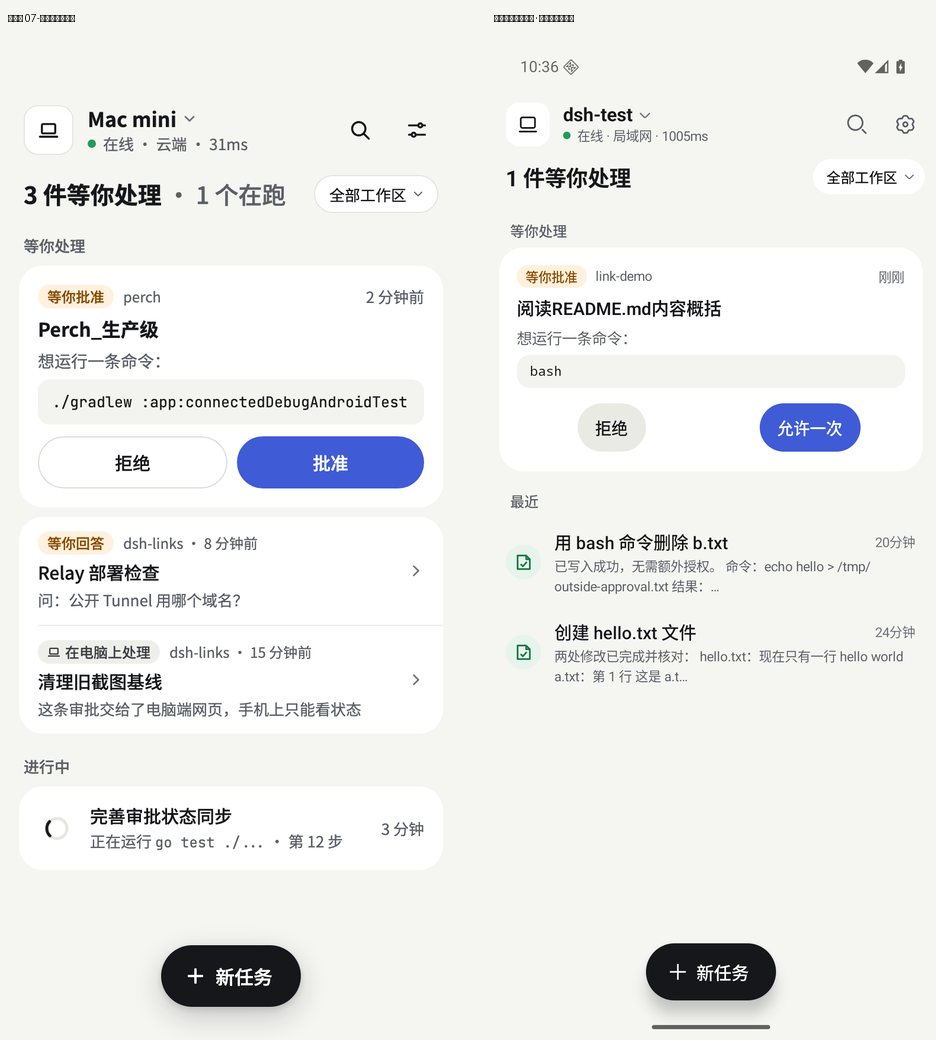
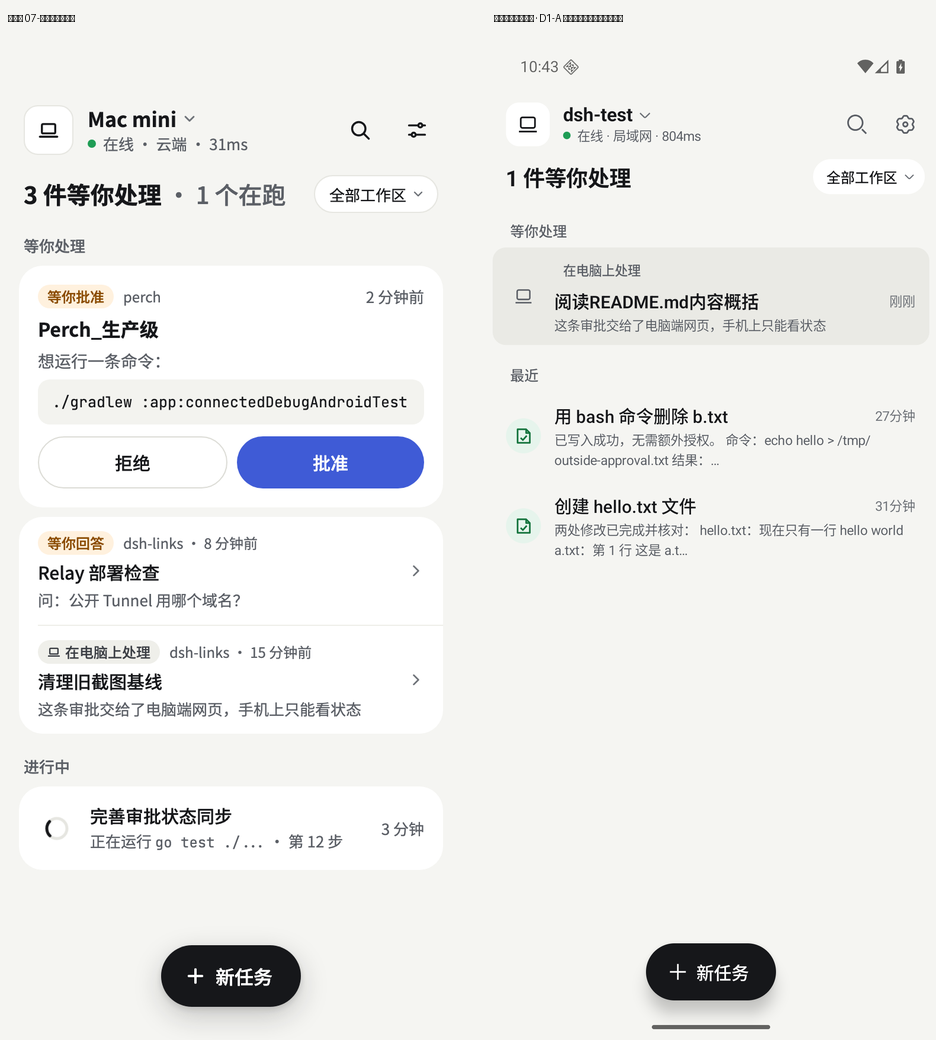
fix: 按方案 D1-A 收紧首页审批卡（只在手机接管时给按钮）+ 修活动缓存漏报 awaitingInput
查了方案 D1（用户已确认按推荐执行）：它准确描述了现状——插件只在手机订阅该会话时接管审批，
交给网页后手机再也批不了，本地 RPC 白名单里也没有替网页批准的方法；推荐 v1 是「诚实降级」：
首页审批卡只在手机接管时给「拒绝 / 批准」，其余 awaitingInput 一律「在电脑上处理」样式。
真机上我看到的带按钮的卡（会话其实交给了电脑端）正是偏离 D1-A。

两处改动：
1. Android：MobileMessage 加 takenOverByPhone，只在 /requests 快照合并成功时置位（该端点只对
   「正在查看该会话的设备」返回 200，所以拿到快照 = 接管成立）；首页卡要求这个标记。加了一条
   单测；WorkspaceActivity 的行数预算卡在 3084/3084（本注释压到两行，理由写在这里）。
2. 插件：进行中的会话行**不读活动缓存**。缓存键是 sessionId:updatedAt:running，而审批事件不改
   updatedAt，缓存会一直命中「没在等」的旧行——真机上 /sessions 连查三次都是 awaitingInput=None。
   running 通常只有一两条，代价可控；两个既有缓存测试按新策略改写。

真机验证：
- 情形 A（未接管）：首页显示「1 件等你处理 / 等你处理 / 在电脑上处理 + 一句说明」，**没有按钮** ✓；
- 缓存修复：新审批到达后 awaitingInput=True 从 6s 起稳定（此前恒为 None）✓。
情形 B（接管态带按钮）本轮没能在首页复现（需要「先订阅、后到达」的审批），已如实记录。

门禁：插件 282 例、Android 五条全绿。

diff --git a/apps/android/app/src/main/java/dev/deeplinks/native/RequestState.kt b/apps/android/app/src/main/java/dev/deeplinks/native/RequestState.kt
@@ -65,6 +65,7 @@ private fun coalesceKeyedRequestMessages(
             toolName = existing.second.toolName ?: message.toolName,
             callId = existing.second.callId ?: message.callId,
             approvalId = existing.second.approvalId ?: message.approvalId,
+            takenOverByPhone = existing.second.takenOverByPhone || message.takenOverByPhone,
             questionRpcId = existing.second.questionRpcId ?: message.questionRpcId,
             questionPayloadJson = existing.second.questionPayloadJson ?: message.questionPayloadJson,
             questionOptions = existing.second.questionOptions.ifEmpty { message.questionOptions },
@@ -106,15 +107,18 @@ internal fun applyRequestSnapshotToMessages(
                     toolName = withState.toolName ?: rec.toolName,
                     callId = withState.callId ?: rec.callId,
                     text = withState.text.ifBlank { rec.toolName.orEmpty() },
+                    takenOverByPhone = true,
                 )
             }
             msg.role == "question" && !msg.questionRpcId.isNullOrBlank() -> {
                 val rec = snapshot.questions.firstOrNull { it.id == msg.questionRpcId } ?: return@map msg
                 val withState = applyRequestState(msg, rec.status, rec.outcome)
-                if (!withState.questionPayloadJson.isNullOrBlank() || rec.questionsJson.isNullOrBlank()) withState
-                else {
+                if (!withState.questionPayloadJson.isNullOrBlank() || rec.questionsJson.isNullOrBlank()) {
+                    withState.copy(takenOverByPhone = true)
+                } else {
                     val parsed = parseClarifyingQuestions(rec.questionsJson)
                     withState.copy(
+                        takenOverByPhone = true,
                         questionPayloadJson = rec.questionsJson,
                         questionOptions = parsed.firstOrNull()?.options?.map { it.label }.orEmpty(),
                         questionHeader = parsed.firstOrNull()?.header?.takeIf { it.isNotBlank() },
@@ -149,6 +153,7 @@ internal fun mergeMessagesWithRequestSnapshot(
                     type = "approval",
                     requestStatus = rec.status,
                     outcome = rec.outcome,
+                    takenOverByPhone = true,
                 ),
             )
         }

diff --git a/apps/android/app/src/test/java/dev/deeplinks/native/RequestStateTest.kt b/apps/android/app/src/test/java/dev/deeplinks/native/RequestStateTest.kt
@@ -166,4 +166,38 @@ class RequestStateTest {
         assertEquals("q-1", snapshot.questions[0].id)
         assertTrue(snapshot.questions[0].questionsJson!!.contains("选一个"))
     }
+
+    // 方案 D1-A：只有「手机接管」（/requests 快照成功合并）才允许在首页给「拒绝 / 批准」按钮。
+    // 仅来自历史的 approval 消息（插件已 passthrough 给电脑端）必须不带标记，走「在电脑上处理」行。
+    @Test
+    fun `快照合并给审批消息打上手机接管标记`() {
+        val history = listOf(
+            MobileMessage(
+                id = "approval-a1",
+                role = "approval",
+                text = "escalate sandbox",
+                toolName = "bash",
+                approvalId = "a1",
+                type = "approval",
+                requestStatus = "pending",
+            ),
+        )
+        val snapshot = SessionRequestSnapshot(
+            approvals = listOf(
+                SessionRequestState(id = "a1", kind = "approval", status = "pending", outcome = null, toolName = "bash", callId = "c1"),
+            ),
+            questions = emptyList(),
+        )
+        val merged = mergeMessagesWithRequestSnapshot(history, snapshot)
+        val row = merged.first { it.approvalId == "a1" }
+        assertTrue("快照合并过的审批必须标记为手机接管", row.takenOverByPhone)
+
+        // 没有快照（插件把请求交给了电脑端）→ 不带标记，首页不给按钮
+        val untouched = MobileMessage(
+            id = "approval-a2", role = "approval", text = "escalate sandbox",
+            approvalId = "a2", type = "approval", requestStatus = "pending",
+        )
+        assertTrue("仅来自历史的审批不得标记为接管", !untouched.takenOverByPhone)
+    }
+
 }

diff --git a/apps/android/app/src/main/java/dev/deeplinks/native/WorkspaceActivity.kt b/apps/android/app/src/main/java/dev/deeplinks/native/WorkspaceActivity.kt
@@ -1899,13 +1899,12 @@ fun WorkspaceScreen(
     }
     val offlineSinceLabel = if (hostReachable) null else dev.deeplinks.native.util.lastOnlineLabel(LastOnlineStore.read(context))
 
-    // 首页审批卡（方案 D1-A）：只有当前打开的那个会话才可能被手机接管，
-    // 它的 pending 审批已经在 messages 里（refreshMessages 拉过 /requests 快照并合并过）。
+    // 首页审批卡（D1-A）：只给手机接管的审批按钮；takenOverByPhone 见 MobileMessage 注释。
     val homePendingApproval = remember(messages, currentSessionId) {
-        if (currentSessionId == null) {
-            null
-        } else {
-            messages.lastOrNull { it.role == "approval" && it.approvalId != null && it.requestStatus == REQUEST_PENDING }
+        if (currentSessionId == null) null
+        else messages.lastOrNull {
+            it.role == "approval" && it.approvalId != null &&
+                it.requestStatus == REQUEST_PENDING && it.takenOverByPhone
         }
     }
     // 发送主体：新任务面板与输入卡共用同一条路径（原先内联在对话页分支里）。

diff --git a/apps/android/app/src/main/java/dev/deeplinks/native/MobileApi.kt b/apps/android/app/src/main/java/dev/deeplinks/native/MobileApi.kt
@@ -36,6 +36,12 @@ data class MobileMessage(
     // SSE 流式消息为 true：播放入场动画；历史/全量刷新消息为 false：跳过（避免整列重放）
     val entrance: Boolean = false,
     val seq: Long = 0L,
+    /**
+     * 这条审批/提问来自**请求快照**——即插件把该会话的请求交给了这台手机（D1-A 的「手机接管」）。
+     * 只有它才能显示「拒绝 / 批准」按钮；仅来自历史的 approval 消息一律走「在电脑上处理」行。
+     * `/requests` 只对「正在查看该会话的设备」返回 200，所以拿到快照就等于接管成立。
+     */
+    val takenOverByPhone: Boolean = false,
     /** ask_user_question 的 rpcId（role=question） */
     val questionRpcId: String? = null,
     /** 选项 label 列表（JSON 亦可塞 toolArgs；此处便于 UI） */

diff --git a/src/mobile-api.js b/src/mobile-api.js
@@ -122,7 +122,10 @@ export async function attachSessionActivity(rt, targetPort, sessions, deps = {})
     while (cursor < targets.length) {
       const row = targets[cursor++]
       const key = `${row.sessionId}:${row.updatedAt ?? ""}:${row.running ? "r" : "d"}`
-      const hit = cache?.get(key)
+      // running 的行**不读缓存**：审批/提问这类事件不一定改 updatedAt，用缓存会一直命中
+      // 那条「没有在等」的旧行，首页就漏掉「等你处理」（2026-09-29 真机：会话卡在审批，
+      // awaitingInput 三次查询都是 none）。running 通常只有一两条，代价可控。
+      const hit = row.running ? undefined : cache?.get(key)
       if (hit) {
         if (hit.activity) row.activity = hit.activity
         if (hit.lastResult) row.lastResult = hit.lastResult
